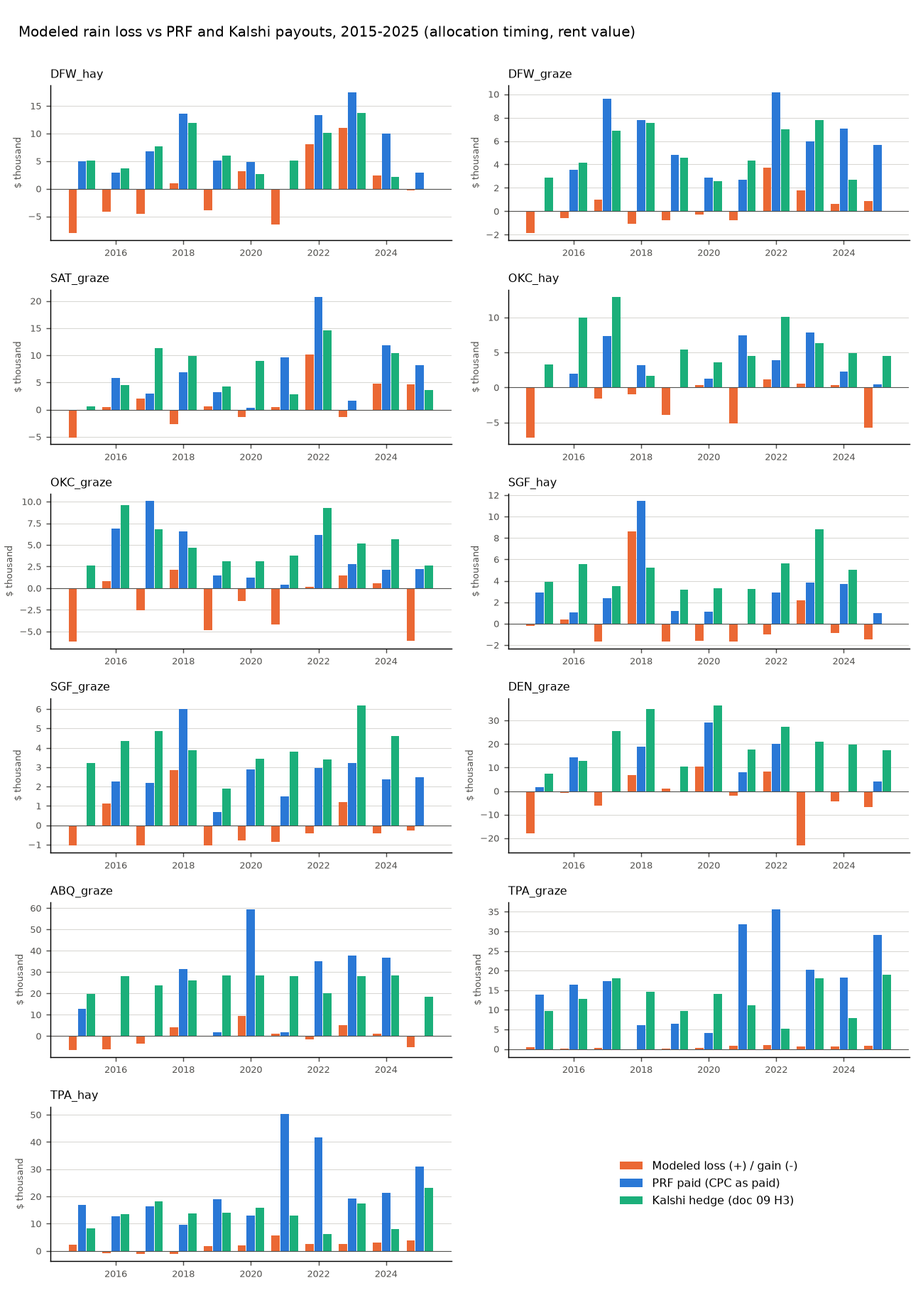
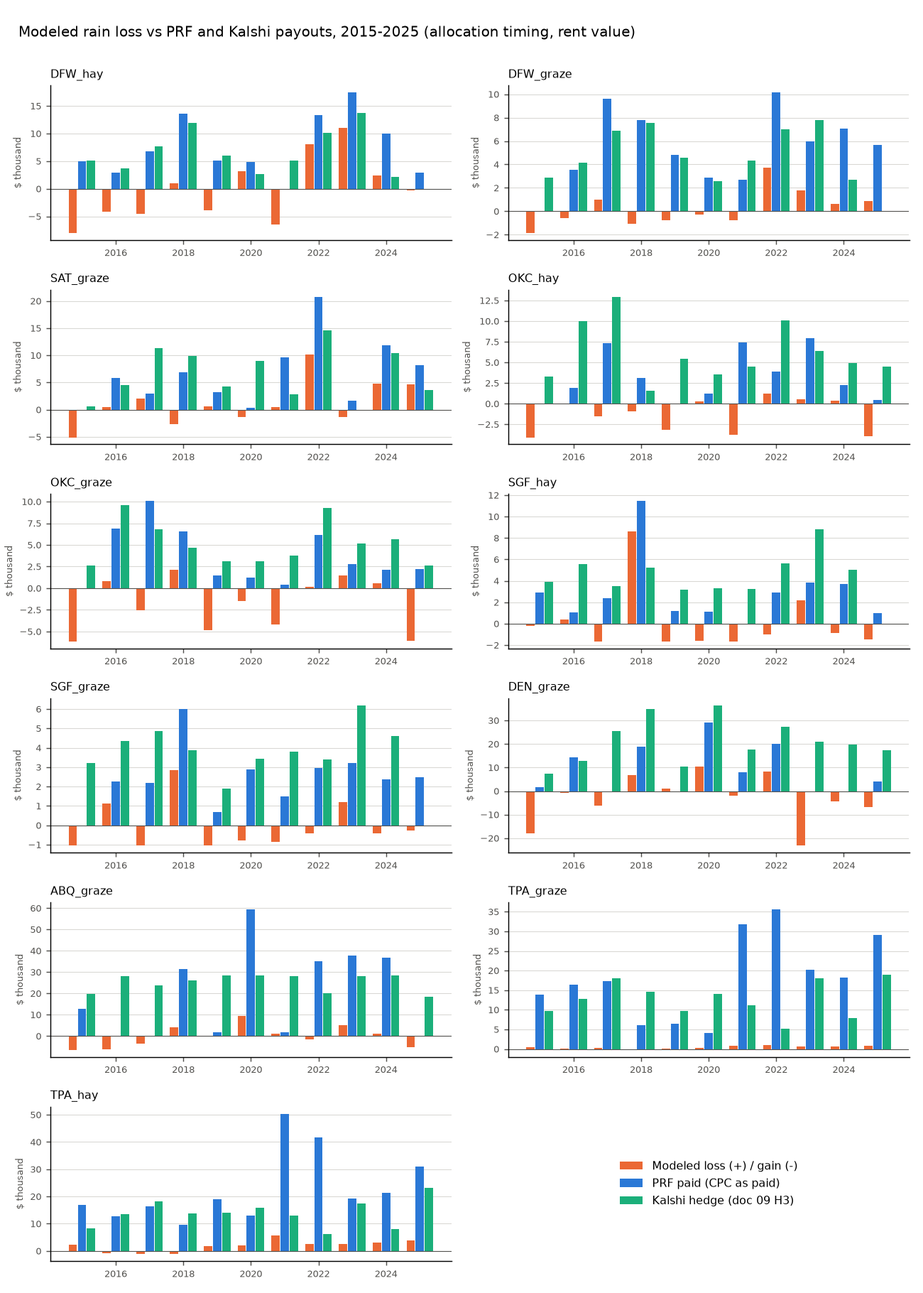
Review: select run/lossmodel-1; match OKC_hay curvature window, add marginal loss per point/inch
- OKC_hay curvature from hay_other_OK_state_AprSep (window of the scen_OKC_hay
  elasticity, 22.0 in), g -0.31 -> -0.90; outputs and doc 13 regenerated
- FarmLossModel.marginal_loss_per_point / marginal_loss_per_inch (idea from
  run/lossmodel-2), tested against finite differences
- Correct POOLED_CURVATURE_ROWS comment; doc 13 review section and prose numbers
- 300 tests pass

Changed region(s): [[0.4923, 0.2462, 0.9846, 0.3385]]

diff --git a/src/agri_hedge/loss_model.py b/src/agri_hedge/loss_model.py
@@ -100,7 +100,7 @@ FARM_CURVATURE_ROW: dict[str, str | None] = {
     "DFW_hay": "hay_other_TX_state_AprSep",          # same data and window as scen_DFW_hay
     "DFW_graze": "forage_rangeland_TX_Parker_AprJun",  # Grass-Cast, same county
     "SAT_graze": None,                               # no Atascosa series: pooled median
-    "OKC_hay": "hay_other_OK_state_AprJun",          # same data as scen_OKC_hay
+    "OKC_hay": "hay_other_OK_state_AprSep",          # same data and window as scen_OKC_hay (22.0 in)
     "OKC_graze": "hay_other_OK_Grady_AprJun",        # observed Grady hay (Grass-Cast too smooth in OK, 03b)
     "SGF_hay": "hay_other_MO_state_AprJun",          # same data as scen_SGF_hay
     "SGF_graze": "hay_other_MO_state_AprJun",        # same data as scen_SGF_graze
@@ -110,8 +110,10 @@ FARM_CURVATURE_ROW: dict[str, str | None] = {
     "TPA_hay": "hay_other_FL_state_MarMay",
 }
 
-#: Rows pooled for the default curvature (every forage/hay quadratic in the CSV except Florida,
-#: whose fit is not significant, t = 1.2).
+#: Rows pooled for the default curvature: the farm-grid / statewide forage and hay quadratics in
+#: the CSV, excluding Florida (fit not significant, t = 1.2), the Grass-Cast-weather duplicates
+#: (``*_grasscastppt``) and the Oklahoma Apr-Sep window (kept as in run/lossmodel-1, so the pooled
+#: value used for SAT_graze is unchanged).
 POOLED_CURVATURE_ROWS = (
     "hay_other_TX_state_AprSep", "hay_other_TX_state_AprJun", "hay_other_OK_state_AprJun",
     "hay_other_MO_state_AprJun", "hay_other_OK_Grady_AprJun", "hay_other_TX_Parker_AprJun",
@@ -450,6 +452,34 @@ class FarmLossModel:
         """Same as ``loss_usd`` from monthly rain (year x month 1..12) and monthly normals."""
         idx = interval_index_from_monthly(monthly, normals, intervals=list(self.timing_weights))
         return self.loss_usd(idx, gains=gains)
+
+    def marginal_loss_per_point(self, interval_index: Mapping[str, float], gains: bool = True) -> dict[str, float]:
+        """$ of extra loss per index point that each weighted interval falls (local derivative).
+
+        One year's {interval: index}. Uses the same pieces as ``production_response``: slope
+        e (1 + 2 g x) on the curve, 0 on the wet plateau (unless ``excess_penalty``) and at the
+        -100% floor, and 0 for x >= 0 when ``gains=False``. Idea grafted from run/lossmodel-2's
+        ``marginal_loss_per_point`` (a hedge optimizer needs $ per point by interval).
+        """
+        if not isinstance(interval_index, Mapping):
+            raise TypeError("marginal_loss_per_point takes one year's {interval: index} mapping")
+        x = self.season_index(interval_index) / 100.0 - 1.0
+        e, g = self.elasticity, self.curvature
+        slope = e * (1.0 + 2.0 * g * x)
+        if g < 0 and not self.excess_penalty and x > -1.0 / (2.0 * g):
+            slope = 0.0
+        if production_response(x, e, g, self.excess_penalty) <= -1.0:
+            slope = 0.0
+        if not gains and x >= 0:
+            slope = 0.0
+        per_point = self.normal_value_usd * slope / 100.0
+        return {k: per_point * w for k, w in self.timing_weights.items()}
+
+    def marginal_loss_per_inch(self, interval_index: Mapping[str, float],
+                               interval_normals_in: Mapping[str, float], gains: bool = True) -> dict[str, float]:
+        """$ of extra loss per inch less rain in each weighted interval (1 point = 1% of its normal)."""
+        per_point = self.marginal_loss_per_point(interval_index, gains=gains)
+        return {k: v * 100.0 / float(interval_normals_in[k]) for k, v in per_point.items()}
 
     def table(self, interval_index: pd.DataFrame, gains: bool = True) -> pd.DataFrame:
         s = self.season_index(interval_index)

diff --git a/tests/test_loss_model.py b/tests/test_loss_model.py
@@ -295,3 +295,60 @@ def test_coverage_metrics_hand_example():
     assert m["capped_coverage"] == pytest.approx(100 / 400)
     assert m["n_loss_years"] == 2 and m["n_loss_years_unpaid"] == 1 and m["n_paid_no_loss"] == 1
     assert m["mean_net_outcome_usd"] == pytest.approx((170 - 350) / 4 - 10)
+
+
+# ---------------------------------------------------------------------------------------------
+# Review fixes (final/lossmodel): curvature window matching and marginal $ per point / inch
+# ---------------------------------------------------------------------------------------------
+
+@pytest.mark.parametrize("fid", ["DFW_hay", "OKC_hay"])
+def test_hay_curvature_window_matches_elasticity_window(sens, fid):
+    """DFW_hay and OKC_hay elasticities use rain over the insured Apr-Sep months (scen rows'
+    baseline 16.55 / 22.0 in), so their curvature must come from the Apr-Sep quadratic."""
+    key = lm.FARM_CURVATURE_ROW[fid]
+    scen = sens[sens["row_key"] == f"scen_{fid}"].iloc[0]
+    row = sens[sens["row_key"] == key].iloc[0]
+    assert key.endswith("AprSep")
+    assert row["baseline_precip_in"] == pytest.approx(scen["baseline_precip_in"])
+
+
+def test_okc_hay_curvature_hand_value(sens):
+    # OK Apr-Sep: +0.035 / -0.038 t, normal 22.0 in -> a = -0.0015, b = 0.0365, g = a/b*22
+    g, src = lm.curvature_for_farm("OKC_hay", sens)
+    assert g == pytest.approx(-0.0015 / 0.0365 * 22.0)
+    c = lm.curvature_for_row(sens, "hay_other_OK_state_AprSep")
+    assert c["minus2_implied"] == pytest.approx(c["minus2"], abs=0.003)
+
+
+@pytest.mark.parametrize("fid", ["DFW_hay", "SGF_hay", "DEN_graze", "TPA_hay"])
+@pytest.mark.parametrize("level", [45.0, 80.0, 97.0, 110.0])
+def test_marginal_loss_per_point_matches_finite_difference(farms, sens, fid, level):
+    m = lm.build_farm_model(farms[fid], sens)
+    base = {k: level for k in m.timing_weights}
+    marg = m.marginal_loss_per_point(base)
+    h = 1e-4
+    for k in m.timing_weights:
+        lo = dict(base, **{k: level - h})
+        hi = dict(base, **{k: level + h})
+        fd = (m.loss_usd(lo) - m.loss_usd(hi)) / (2 * h)   # extra loss per point of LESS rain
+        assert marg[k] == pytest.approx(fd, rel=1e-4, abs=1e-6)
+
+
+def test_marginal_loss_zero_on_plateau_and_when_gains_off(farms, sens):
+    m = lm.build_farm_model(farms["SGF_hay"], sens)        # saturates at season index ~126
+    wet = {k: 200.0 for k in m.timing_weights}
+    assert all(v == 0.0 for v in m.marginal_loss_per_point(wet).values())
+    mild_wet = {k: 110.0 for k in m.timing_weights}
+    assert all(v > 0 for v in m.marginal_loss_per_point(mild_wet).values())
+    assert all(v == 0.0 for v in m.marginal_loss_per_point(mild_wet, gains=False).values())
+    with pytest.raises(TypeError):
+        m.marginal_loss_per_point(_flat_index())
+
+
+def test_marginal_loss_per_inch_scales_by_interval_normal(farms, sens):
+    m = lm.build_farm_model(farms["DEN_graze"], sens)
+    idx = {k: 70.0 for k in m.timing_weights}
+    normals = {k: 2.0 + i for i, k in enumerate(m.timing_weights)}
+    pp, pi = m.marginal_loss_per_point(idx), m.marginal_loss_per_inch(idx, normals)
+    for k in m.timing_weights:
+        assert pi[k] == pytest.approx(pp[k] * 100.0 / normals[k])

diff --git a/docs/analysis/13_rain_to_loss_model.md b/docs/analysis/13_rain_to_loss_model.md
@@ -2,19 +2,19 @@
 
 **Proposal cell:** Milestone 2 foundation (loss model for hedge sizing and contract design)  |  **Status:** DRAFT (model and backtest done; not fact-checked by an independent pass)  |  **Last updated:** 2026-11-01
 
-Code: [`src/agri_hedge/loss_model.py`](../../src/agri_hedge/loss_model.py) (model), [`scripts/run_loss_model.py`](../../scripts/run_loss_model.py) (backtest), [`tests/test_loss_model.py`](../../tests/test_loss_model.py) (57 tests). Outputs: `data/processed/loss_model_parameters.csv`, `loss_model_farm_year.csv` (1969-2025, every variant, merged with PRF and Kalshi payouts), `loss_model_coverage.csv`, `loss_model_hay_validation.csv`, figure [`l1_loss_vs_payouts_2015_2025.png`](../figures/l1_loss_vs_payouts_2015_2025.png).
+Code: [`src/agri_hedge/loss_model.py`](../../src/agri_hedge/loss_model.py) (model), [`scripts/run_loss_model.py`](../../scripts/run_loss_model.py) (backtest), [`tests/test_loss_model.py`](../../tests/test_loss_model.py) (78 tests). Outputs: `data/processed/loss_model_parameters.csv`, `loss_model_farm_year.csv` (1969-2025, every variant, merged with PRF and Kalshi payouts), `loss_model_coverage.csv`, `loss_model_hay_validation.csv`, figure [`l1_loss_vs_payouts_2015_2025.png`](../figures/l1_loss_vs_payouts_2015_2025.png).
 
 ## Key findings
 
 - **We now have one reusable function from rain to dollars.** Given a farm from `farms.yaml` and rain (PRF interval indices, or monthly rain plus normals), `build_farm_model(farm).loss_usd(rain)` returns the dollar loss (positive) or gain (negative) versus a normal year. It covers interval timing weights, dry-versus-wet asymmetry, saturation in wet years, irrigation share, and three ways of valuing forage. A row-crop path (`load_rowcrop_model`) does the same for corn and soybeans from doc 03a, including the excess-rain penalty.
 - **Every parameter comes from existing project research. Nothing was re-fitted here.** Elasticities are the doc-03b `scen_*` values (0.14-0.89). The asymmetry comes from the quadratic fits already stored in `crop_rain_sensitivity_other.csv`. With asymmetry off and gains floored at zero, the model reproduces doc 04b's forage-loss proxy to the cent for all 825 farm-years. `run_scenarios.py` now imports these shared functions instead of keeping its own copies.
 - **The asymmetry is mild for most farms but strong in Missouri.** The curvature g ranges from 0 (Florida, where no asymmetry is detectable) to −1.92 (Missouri hay). For Missouri, a season at 80% of normal rain costs about 2.3 times what a season at 120% gains. At 70% versus 130% the ratio is 3.6, because Missouri gains saturate at a season index of 126.
-- **The model points the right way against real yields, but it overstates the size of swings.** For the four hay farms, the predicted production change correlates 0.34-0.58 (central variant; 0.34-0.61 across variants) with detrended NASS statewide hay yields over 1975-2025. Part of the gap is expected, because state yields average many farms and the model uses one grid's rain. The regression slope of actual on modeled is 0.46-0.92: the farm-grid model swings more than the state average. This check is not independent: the hay elasticities were fitted on statewide data over the same years (doc 03b).
-- **Asymmetry helps a little in Texas and Oklahoma and is too strong in Missouri.** Adding curvature raises the hay-yield correlation from 0.45 to 0.46 (TX) and from 0.56 to 0.58 (OK). In Missouri it lowers the correlation (0.44 to 0.40) and overstates drought years (−15% modeled vs −11.6% actual in the driest fifth of years). It still cuts Missouri's RMSE (0.124 to 0.108), mainly because saturation stops the model from predicting wet-year gains that never came.
+- **The model points the right way against real yields, but it overstates the size of swings.** For the four hay farms, the predicted production change correlates 0.34-0.57 (central variant; 0.34-0.59 across variants) with detrended NASS statewide hay yields over 1975-2025. Part of the gap is expected, because state yields average many farms and the model uses one grid's rain. The regression slope of actual on modeled is 0.46-0.92 (central variant): the farm-grid model swings more than the state average. This check is not independent: the hay elasticities were fitted on statewide data over the same years (doc 03b).
+- **Asymmetry helps a little in Texas and Oklahoma and is too strong in Missouri.** Adding curvature raises the hay-yield correlation from 0.45 to 0.46 (TX) and from 0.56 to 0.57 (OK), and cuts Oklahoma's RMSE from 0.142 to 0.122. In Missouri it lowers the correlation (0.44 to 0.40) and overstates drought years (−15% modeled vs −11.6% actual in the driest fifth of years). It still cuts Missouri's RMSE (0.124 to 0.108), mainly because saturation stops the model from predicting wet-year gains that never came.
 - **Measured against modeled loss, both PRF and the Kalshi hedge over-pay, and neither misses a loss year.** Over 2015-2025, 11 farms:
   - At the doc-03b/04b value basis (hay at market price, grazing at cash rent), modeled losses total $158k. PRF paid $1.11M (7.0 times) and the Kalshi hedge $1.20M (7.7 times).
   - In none of the 34-35 farm-years with a material modeled loss (more than 5% of normal value) did PRF or Kalshi pay zero.
-  - When grazing is valued at the cost of replacement hay, modeled losses rise to $699k. PRF then pays 1.6 times the loss, but only 59% of loss dollars are covered in the year they happen (Kalshi: 57%).
+  - When grazing is valued at the cost of replacement hay, modeled losses rise to $700k. PRF then pays 1.6 times the loss, but only 59% of loss dollars are covered in the year they happen (Kalshi: 57%).
 - **PRF tracks modeled loss better than the Kalshi hedge does.** The median farm correlation between yearly payout and modeled loss is 0.78 for PRF and 0.52 for Kalshi. With growth-curve timing it is 0.65 and 0.49.
   - Kalshi pays more often in years the model calls a gain: 58 farm-years versus 48 for PRF. It also sends 42% of its dollars to those years, against 22% for PRF.
   - In Florida the Kalshi hedge is uncorrelated with modeled loss (−0.20 grazing, −0.06 hay).
@@ -33,6 +33,7 @@ Code: [`src/agri_hedge/loss_model.py`](../../src/agri_hedge/loss_model.py) (mode
 | `FarmLossModel.loss_usd(index, gains=True)` | dollar loss (+) / gain (−) for a year×interval DataFrame of PRF-style indices (100 = normal) or one year's `{interval: index}` |
 | `FarmLossModel.loss_from_monthly(monthly, normals)` | same, from monthly rain (year×month) and monthly normals; e.g. Kalshi station rain |
 | `FarmLossModel.table(index)` | season index, production change and loss per year |
+| `FarmLossModel.marginal_loss_per_point(index)`, `.marginal_loss_per_inch(index, interval_normals_in)` | one year's $ of extra loss per index point (or per inch) that each weighted interval falls: the local slope a hedge optimizer needs (0 on the wet plateau and at the −100% floor) |
 | `production_response(x, e, g, excess_penalty)` | the response curve on its own |
 | `interval_index_from_monthly`, `weighted_index`, `growth_timing_weights`, `curvature_for_row`, `value_per_acre`, `irrigated_share_of` | building blocks |
 | `forage_loss_proxy`, `elasticity_for`, `weighted_index` | moved unchanged from `scripts/run_scenarios.py`, which now imports them |
@@ -79,9 +80,9 @@ Every number used to build or calibrate the model. "Repo" = read from a committe
 | Quantity | Value | Units | Region / period | Source | Verification |
 |---|---|---|---|---|---|
 | Farm elasticities e | DFW_hay 0.486; DFW_graze 0.573; SAT 0.477; OKC_hay 0.494; OKC_graze 0.672; SGF_hay 0.397; SGF_graze 0.462; DEN 0.742; ABQ 0.888; TPA_graze 0.155; TPA_hay 0.144 | - | per farm | `crop_rain_sensitivity_other.csv` rows `scen_*`, column `rain_elasticity` (doc 03b section 8) | Repo (03b: COMPUTED/DERIVED, not fact-checked) |
-| Quadratic +1 / −1 / −2 in used for curvature | TX hay Apr-Sep +0.059/−0.061/−0.125 t; OK hay Apr-Jun +0.041/−0.043/−0.090 t; MO hay Apr-Jun +0.031/−0.041/−0.093 t; Grady hay +0.047/−0.052/−0.109 t; Parker forage +46/−53/−114 lb; Elbert +70/−73/−150 lb; Torrance +35/−40/−84 lb; FL hay +0.013/−0.007/−0.008 t | yield units | 1975-2025 (hay), 1982-2019 (Grass-Cast), 1960-2018 (Grady) | same CSV, `valid_range_note` of the rows named in table A | Repo (03b: COMPUTED) |
-| Window normals for curvature | 16.55, 12.89, 13.84, 12.1, 11.76, 9.8, 6.85, 10.43 (same order) | in | same | same CSV, `baseline_precip_in` | Repo |
-| Curvature g = (a/b) × N | −0.28, −0.31, −1.92, −0.61, −0.83, −0.21, −0.46; FL +3.13 set to 0 | - | per row | a = (y₊₁ + y₋₁)/2, b = (y₊₁ − y₋₁)/2 | DERIVED; each quadratic reproduces its own −2 in value within 2% (test) |
+| Quadratic +1 / −1 / −2 in used for curvature | TX hay Apr-Sep +0.059/−0.061/−0.125 t; OK hay Apr-Sep +0.035/−0.038/−0.079 t; MO hay Apr-Jun +0.031/−0.041/−0.093 t; Grady hay +0.047/−0.052/−0.109 t; Parker forage +46/−53/−114 lb; Elbert +70/−73/−150 lb; Torrance +35/−40/−84 lb; FL hay +0.013/−0.007/−0.008 t | yield units | 1975-2025 (hay), 1982-2019 (Grass-Cast), 1960-2018 (Grady) | same CSV, `valid_range_note` of the rows named in table A | Repo (03b: COMPUTED) |
+| Window normals for curvature | 16.55, 22.0, 13.84, 12.1, 11.76, 9.8, 6.85, 10.43 (same order) | in | same | same CSV, `baseline_precip_in` | Repo |
+| Curvature g = (a/b) × N | −0.28, −0.90, −1.92, −0.61, −0.83, −0.21, −0.46; FL +3.13 set to 0 | - | per row | a = (y₊₁ + y₋₁)/2, b = (y₊₁ − y₋₁)/2 | DERIVED; each quadratic reproduces its own −2 in value within 2% (test) |
 | Pooled curvature (SAT_graze, no Atascosa series) | −0.53 | - | median of 10 non-Florida quadratics | same CSV | DERIVED |
 | Growth curves (Jan..Dec %) | TX5514, TX6011, TX4525, TX5520, OK0001, OK0003, CO6701, CO6709, NM4208, FL bahiagrass FSG (values in code) | % of annual | per ESD | doc 03b numbers table (NRCS EDIT / FSG) | Repo (03b: CONFIRMED) |
 | Missouri fescue curve | Mar-Jun 16.7% each, Sep-Nov 11.1% each | % | Dade Co. | our construction from MU Extension "two-thirds spring, one-third fall" (doc 03b) | ASSUMPTION (no NRCS curve exists) |
@@ -129,7 +130,7 @@ Generated by `python scripts/run_loss_model.py`. Do not edit by hand.
 | DFW_hay | 0.486 | -0.28 | 281 | $37,440 | $37,440 | Apr-May 0.40; Jun-Jul 0.35; Aug-Sep 0.25 | Mar-Apr 0.21; May-Jun 0.38; Jul-Aug 0.17; Sep-Oct 0.21; Nov-Dec 0.04 |
 | DFW_graze | 0.573 | -0.83 | 160 | $10,800 | $53,625 | Feb-Mar 0.15; Apr-May 0.35; Jun-Jul 0.25; Sep-Oct 0.25 | Jan-Feb 0.05; Mar-Apr 0.27; May-Jun 0.34; Jul-Aug 0.13; Sep-Oct 0.17; Nov-Dec 0.05 |
 | SAT_graze | 0.477 | -0.53 | 194 | $23,250 | $86,164 | Mar-Apr 0.20; May-Jun 0.40; Sep-Oct 0.40 | Jan-Feb 0.06; Mar-Apr 0.22; May-Jun 0.27; Jul-Aug 0.19; Sep-Oct 0.19; Nov-Dec 0.09 |
-| OKC_hay | 0.494 | -0.31 | 263 | $29,740 | $29,740 | Apr-May 0.35; Jun-Jul 0.40; Aug-Sep 0.25 | Jan-Feb 0.04; Mar-Apr 0.23; May-Jun 0.43; Jul-Aug 0.17; Sep-Oct 0.11; Nov-Dec 0.02 |
+| OKC_hay | 0.494 | -0.90 | 155 | $29,740 | $29,740 | Apr-May 0.35; Jun-Jul 0.40; Aug-Sep 0.25 | Jan-Feb 0.04; Mar-Apr 0.23; May-Jun 0.43; Jul-Aug 0.17; Sep-Oct 0.11; Nov-Dec 0.02 |
 | OKC_graze | 0.672 | -0.61 | 182 | $24,500 | $52,256 | Mar-Apr 0.30; May-Jun 0.40; Jul-Aug 0.20; Sep-Oct 0.10 | Jan-Feb 0.04; Mar-Apr 0.23; May-Jun 0.43; Jul-Aug 0.17; Sep-Oct 0.11; Nov-Dec 0.02 |
 | SGF_hay | 0.397 | -1.92 | 126 | $32,205 | $32,205 | Mar-Apr 0.40; May-Jun 0.40; Sep-Oct 0.20 | Jan-Feb 0.08; Mar-Apr 0.33; May-Jun 0.25; Jul-Aug 0.06; Sep-Oct 0.22; Nov-Dec 0.06 |
 | SGF_graze | 0.462 | -1.92 | 126 | $17,500 | $27,075 | Mar-Apr 0.30; May-Jun 0.30; Aug-Sep 0.20; Oct-Nov 0.20 | Jan-Feb 0.08; Mar-Apr 0.33; May-Jun 0.25; Jul-Aug 0.06; Sep-Oct 0.22; Nov-Dec 0.06 |
@@ -138,7 +139,7 @@ Generated by `python scripts/run_loss_model.py`. Do not edit by hand.
 | TPA_graze | 0.155 | 0.00 | none (linear) | $11,000 | $81,600 | Mar-Apr 0.40; May-Jun 0.40; Oct-Nov 0.20 | Jan-Feb 0.02; Mar-Apr 0.22; May-Jun 0.33; Jul-Aug 0.33; Sep-Oct 0.10 |
 | TPA_hay | 0.144 | 0.00 | none (linear) | $65,280 | $65,280 | Mar-Apr 0.30; May-Jun 0.40; Sep-Oct 0.30 | Jan-Feb 0.02; Mar-Apr 0.22; May-Jun 0.33; Jul-Aug 0.33; Sep-Oct 0.10 |
 
-Curvature sources: DFW_hay: hay_other_TX_state_AprSep (+1/-1 in = 0.059/-0.061, normal 16.55 in); DFW_graze: forage_rangeland_TX_Parker_AprJun (+1/-1 in = 46.0/-53.0, normal 11.76 in); SAT_graze: pooled median of 10 forage/hay quadratics; OKC_hay: hay_other_OK_state_AprJun (+1/-1 in = 0.041/-0.043, normal 12.89 in); OKC_graze: hay_other_OK_Grady_AprJun (+1/-1 in = 0.047/-0.052, normal 12.1 in); SGF_hay: hay_other_MO_state_AprJun (+1/-1 in = 0.031/-0.041, normal 13.84 in); SGF_graze: hay_other_MO_state_AprJun (+1/-1 in = 0.031/-0.041, normal 13.84 in); DEN_graze: forage_rangeland_CO_Elbert_AprJul (+1/-1 in = 70.0/-73.0, normal 9.8 in); ABQ_graze: forage_rangeland_NM_Torrance_JulSep (+1/-1 in = 35.0/-40.0, normal 6.85 in); TPA_graze: hay_other_FL_state_MarMay (+1/-1 in = 0.013/-0.007, normal 10.43 in); fitted +3.13 > 0 clamped to 0; TPA_hay: hay_other_FL_state_MarMay (+1/-1 in = 0.013/-0.007, normal 10.43 in); fitted +3.13 > 0 clamped to 0
+Curvature sources: DFW_hay: hay_other_TX_state_AprSep (+1/-1 in = 0.059/-0.061, normal 16.55 in); DFW_graze: forage_rangeland_TX_Parker_AprJun (+1/-1 in = 46.0/-53.0, normal 11.76 in); SAT_graze: pooled median of 10 forage/hay quadratics; OKC_hay: hay_other_OK_state_AprSep (+1/-1 in = 0.035/-0.038, normal 22.0 in); OKC_graze: hay_other_OK_Grady_AprJun (+1/-1 in = 0.047/-0.052, normal 12.1 in); SGF_hay: hay_other_MO_state_AprJun (+1/-1 in = 0.031/-0.041, normal 13.84 in); SGF_graze: hay_other_MO_state_AprJun (+1/-1 in = 0.031/-0.041, normal 13.84 in); DEN_graze: forage_rangeland_CO_Elbert_AprJul (+1/-1 in = 70.0/-73.0, normal 9.8 in); ABQ_graze: forage_rangeland_NM_Torrance_JulSep (+1/-1 in = 35.0/-40.0, normal 6.85 in); TPA_graze: hay_other_FL_state_MarMay (+1/-1 in = 0.013/-0.007, normal 10.43 in); fitted +3.13 > 0 clamped to 0; TPA_hay: hay_other_FL_state_MarMay (+1/-1 in = 0.013/-0.007, normal 10.43 in); fitted +3.13 > 0 clamped to 0
 
 ### B. Backtest 2015-2025, all 11 farms pooled
 
@@ -146,14 +147,14 @@ Modeled loss counts only years with a loss (positive part). Capped coverage = su
 
 | Loss variant | Instrument | Farm-years | Modeled loss | Payouts | Payout / loss | Capped coverage | Median farm corr | Loss years | ...unpaid | Paid with no loss | Farms with lower risk (sd ratio < 1) |
 |---|---|---|---|---|---|---|---|---|---|---|---|
-| alloc_rent | prf | 121 | $157,721 | $1,110,071 | 7.04 | 99% | 0.78 | 35 | 0 | 48 | 5 of 11 |
-| alloc_rent | kalshi | 116 | $156,868 | $1,200,959 | 7.66 | 97% | 0.52 | 34 | 0 | 58 | 6 of 11 |
-| alloc_repl | prf | 121 | $699,476 | $1,110,071 | 1.59 | 59% | 0.78 | 35 | 0 | 48 | 8 of 11 |
-| alloc_repl | kalshi | 116 | $695,244 | $1,200,959 | 1.73 | 57% | 0.52 | 34 | 0 | 58 | 8 of 11 |
-| growth_rent | prf | 121 | $120,517 | $1,110,071 | 9.21 | 99% | 0.65 | 28 | 0 | 57 | 4 of 11 |
-| growth_rent | kalshi | 116 | $118,778 | $1,200,959 | 10.11 | 98% | 0.49 | 28 | 0 | 69 | 5 of 11 |
-| growth_repl | prf | 121 | $501,153 | $1,110,071 | 2.22 | 70% | 0.65 | 28 | 0 | 57 | 7 of 11 |
-| growth_repl | kalshi | 116 | $497,149 | $1,200,959 | 2.42 | 63% | 0.49 | 28 | 0 | 69 | 8 of 11 |
+| alloc_rent | prf | 121 | $157,792 | $1,110,071 | 7.04 | 99% | 0.78 | 35 | 0 | 48 | 5 of 11 |
+| alloc_rent | kalshi | 116 | $156,939 | $1,200,959 | 7.65 | 97% | 0.52 | 34 | 0 | 58 | 6 of 11 |
+| alloc_repl | prf | 121 | $699,548 | $1,110,071 | 1.59 | 59% | 0.78 | 35 | 0 | 48 | 8 of 11 |
+| alloc_repl | kalshi | 116 | $695,315 | $1,200,959 | 1.73 | 57% | 0.52 | 34 | 0 | 58 | 8 of 11 |
+| growth_rent | prf | 121 | $120,769 | $1,110,071 | 9.19 | 99% | 0.65 | 28 | 0 | 57 | 4 of 11 |
+| growth_rent | kalshi | 116 | $119,030 | $1,200,959 | 10.09 | 98% | 0.49 | 28 | 0 | 69 | 5 of 11 |
+| growth_repl | prf | 121 | $501,404 | $1,110,071 | 2.21 | 70% | 0.65 | 28 | 0 | 57 | 7 of 11 |
+| growth_repl | kalshi | 116 | $497,400 | $1,200,959 | 2.41 | 63% | 0.49 | 28 | 0 | 69 | 8 of 11 |
 | alloc_rent_linear | prf | 121 | $139,685 | $1,110,071 | 7.95 | 99% | 0.76 | 35 | 0 | 48 | 6 of 11 |
 | alloc_rent_linear | kalshi | 116 | $138,912 | $1,200,959 | 8.65 | 99% | 0.51 | 34 | 0 | 58 | 7 of 11 |
 
@@ -164,7 +165,7 @@ Modeled loss counts only years with a loss (positive part). Capped coverage = su
 | DFW_hay | $25,694 | -$1,660 | $81,844 | 3.19 | 100% | 0.80 | $68,070 (10 yr) | 2.65 | 97% | 0.54 | 4 (0 / 0) | 0.60 / 0.85 |
 | DFW_graze | $7,985 | $2,671 | $60,206 | 7.54 | 100% | 0.74 | $50,410 (10 yr) | 7.07 | 100% | 0.52 | 5 (0 / 0) | 1.41 / 1.14 |
 | SAT_graze | $23,261 | $12,965 | $71,487 | 3.07 | 100% | 0.85 | $70,837 (10 yr) | 3.05 | 95% | 0.58 | 4 (0 / 0) | 0.80 / 0.94 |
-| OKC_hay | $2,317 | -$22,263 | $35,667 | 15.39 | 100% | 0.29 | $67,295 (11 yr) | 29.04 | 100% | 0.36 | 0 (0 / 0) | 1.21 / 1.24 |
+| OKC_hay | $2,389 | -$15,014 | $35,667 | 14.93 | 100% | 0.24 | $67,295 (11 yr) | 28.17 | 100% | 0.34 | 0 (0 / 0) | 1.59 / 1.67 |
 | OKC_graze | $5,263 | -$20,053 | $39,906 | 7.58 | 100% | 0.49 | $56,466 (11 yr) | 10.73 | 100% | 0.63 | 2 (0 / 0) | 1.04 / 0.80 |
 | SGF_hay | $11,217 | $1,058 | $31,565 | 2.81 | 100% | 0.93 | $47,439 (10 yr) | 4.23 | 70% | 0.44 | 2 (0 / 0) | 0.38 / 0.91 |
 | SGF_graze | $5,185 | -$651 | $26,532 | 5.12 | 100% | 0.81 | $39,665 (10 yr) | 7.65 | 100% | 0.39 | 3 (0 / 0) | 0.71 / 1.03 |
@@ -180,7 +181,7 @@ Modeled loss counts only years with a loss (positive part). Capped coverage = su
 | DFW_hay | $16,934 | -$7,150 | $81,844 | 4.83 | 100% | 0.65 | $68,070 (10 yr) | 4.30 | 98% | 0.43 | 3 (0 / 0) | 0.89 / 0.97 |
 | DFW_graze | $30,582 | $1,302 | $60,206 | 1.97 | 64% | 0.70 | $50,410 (10 yr) | 1.77 | 57% | 0.63 | 2 (0 / 0) | 0.77 / 0.86 |
 | SAT_graze | $64,994 | $25,047 | $71,487 | 1.10 | 66% | 0.60 | $70,837 (10 yr) | 1.10 | 50% | 0.49 | 4 (0 / 0) | 0.81 / 0.89 |
-| OKC_hay | $4,172 | -$21,065 | $35,667 | 8.55 | 96% | 0.39 | $67,295 (11 yr) | 16.13 | 100% | 0.35 | 1 (0 / 0) | 1.08 / 1.20 |
+| OKC_hay | $4,423 | -$13,397 | $35,667 | 8.06 | 92% | 0.32 | $67,295 (11 yr) | 15.21 | 100% | 0.31 | 1 (0 / 0) | 1.41 / 1.56 |
 | OKC_graze | $10,277 | -$40,857 | $39,906 | 3.88 | 99% | 0.60 | $56,466 (11 yr) | 5.49 | 100% | 0.72 | 2 (0 / 0) | 0.81 / 0.77 |
 | SGF_hay | $6,687 | -$1,566 | $31,565 | 4.72 | 92% | 0.77 | $47,439 (10 yr) | 7.09 | 100% | 0.67 | 1 (0 / 0) | 1.22 / 0.80 |
 | SGF_graze | $6,543 | -$1,532 | $26,532 | 4.06 | 100% | 0.75 | $39,665 (10 yr) | 6.06 | 100% | 0.38 | 3 (0 / 0) | 0.68 / 0.96 |
@@ -196,7 +197,7 @@ Modeled loss counts only years with a loss (positive part). Capped coverage = su
 | DFW_hay | -8,012 | -4,209 | -4,487 | 1,038 | -3,907 | 3,126 | -6,430 | 8,054 | 11,001 | 2,475 | -310 |
 | DFW_graze | -1,861 | -594 | 992 | -1,062 | -745 | -282 | -770 | 3,720 | 1,778 | 642 | 852 |
 | SAT_graze | -5,081 | 439 | 2,093 | -2,615 | 604 | -1,290 | 495 | 10,180 | -1,311 | 4,732 | 4,717 |
-| OKC_hay | -7,107 | -45 | -1,614 | -966 | -3,949 | 311 | -5,173 | 1,165 | 507 | 334 | -5,726 |
+| OKC_hay | -4,062 | -45 | -1,500 | -926 | -3,183 | 315 | -3,758 | 1,218 | 517 | 339 | -3,928 |
 | OKC_graze | -6,151 | 854 | -2,568 | 2,162 | -4,837 | -1,494 | -4,212 | 184 | 1,454 | 609 | -6,055 |
 | SGF_hay | -239 | 414 | -1,663 | 8,610 | -1,663 | -1,601 | -1,663 | -1,003 | 2,193 | -890 | -1,439 |
 | SGF_graze | -1,019 | 1,133 | -1,052 | 2,845 | -1,052 | -768 | -844 | -416 | 1,207 | -403 | -282 |
@@ -214,9 +215,9 @@ Model input is the farm-grid CPC index; the yield is the statewide average, so a
 | DFW_hay (Texas) | alloc_rent | 1975-2025 | 51 | 0.46 | 0.46 | 0.164 | -24.8% / -12.3% | 0.34 |
 | DFW_hay (Texas) | alloc_rent_linear | 1975-2025 | 51 | 0.45 | 0.44 | 0.167 | -22.0% / -12.3% | 0.32 |
 | DFW_hay (Texas) | growth_rent | 1975-2025 | 51 | 0.47 | 0.56 | 0.151 | -17.1% / -10.3% | 0.21 |
-| OKC_hay (Oklahoma) | alloc_rent | 1975-2025 | 51 | 0.58 | 0.58 | 0.126 | -17.7% / -11.5% | 0.57 |
+| OKC_hay (Oklahoma) | alloc_rent | 1975-2025 | 51 | 0.57 | 0.62 | 0.122 | -21.2% / -11.5% | 0.59 |
 | OKC_hay (Oklahoma) | alloc_rent_linear | 1975-2025 | 51 | 0.56 | 0.48 | 0.142 | -15.9% / -11.5% | 0.56 |
-| OKC_hay (Oklahoma) | growth_rent | 1975-2025 | 51 | 0.61 | 0.75 | 0.114 | -11.9% / -12.3% | 0.52 |
+| OKC_hay (Oklahoma) | growth_rent | 1975-2025 | 51 | 0.59 | 0.88 | 0.110 | -13.5% / -12.3% | 0.46 |
 | SGF_hay (Missouri) | alloc_rent | 1975-2025 | 51 | 0.40 | 0.52 | 0.108 | -15.0% / -11.6% | 0.49 |
 | SGF_hay (Missouri) | alloc_rent_linear | 1975-2025 | 51 | 0.44 | 0.45 | 0.124 | -9.6% / -11.6% | 0.52 |
 | SGF_hay (Missouri) | growth_rent | 1975-2025 | 51 | 0.42 | 0.73 | 0.101 | -10.4% / -6.9% | 0.55 |
@@ -267,7 +268,7 @@ How to read the results:
 
 ## Verification
 
-- `tests/test_loss_model.py`: 57 tests, all passing, no network. The full suite is 279 passed (222 before). The tests check:
+- `tests/test_loss_model.py`: 78 tests, all passing, no network (57 from run/lossmodel-1 plus 21 added in the independent review). The full suite is 300 passed (222 before). The tests check:
   - The model reproduces the committed doc-04b `forage_loss_usd` and `weighted_index` for all 11 farms × 75 years, to within $0.01.
   - Hand-computed values for the response curve, curvature, growth weights, interval indices and a full farm loss (DEN_graze at 70% rain).
   - Each forage/hay quadratic reproduces its documented −2 in value.
@@ -276,6 +277,14 @@ How to read the results:
   - Irrigation scaling, sign conventions, and the coverage-metric arithmetic.
 - `run_scenarios.py` after the refactor: rerunning it gives identical `prf_scenario_results.csv` values in every column except `indemnity_official_adm_index_usd`. That column needs the raw ADM index history, which was not present in this checkout, and the difference is unrelated to the refactor. The regenerated outputs were discarded, so the committed results are unchanged.
 - Backtest inputs: PRF and Kalshi totals match doc 09.
+
+## Independent review changes (final/lossmodel)
+
+This doc was produced on branch run/lossmodel-1 and selected over a second independent run (run/lossmodel-2) by a reviewer, who reran the tests and the script (the committed outputs reproduced exactly, including the NASS check) and made these changes:
+
+- **OKC_hay curvature now comes from the Oklahoma Apr-Sep quadratic** (`hay_other_OK_state_AprSep`, +0.035/−0.038 in, normal 22.0 in, g = −0.90) instead of Apr-Jun (g = −0.31). The `scen_OKC_hay` elasticity is defined on rain over the insured Apr-Sep months (baseline 22.0 in), so this applies the same "same data and window" rule already used for DFW_hay. Effect: OKC_hay saturates at a season index of 155 instead of 263, its wet-year gains shrink, and pooled 2015-2025 modeled loss moves by under $300 (for example $157,721 to $157,792 at rent value). No headline ratio changes by more than 0.02.
+- **Added `marginal_loss_per_point` and `marginal_loss_per_inch`** to `FarmLossModel`, an idea taken from run/lossmodel-2. They are tested against finite differences of `loss_usd`.
+- Corrected the code comment on `POOLED_CURVATURE_ROWS`: the pool is not "every" quadratic in the CSV (it leaves out the Grass-Cast-weather duplicates and the Oklahoma Apr-Sep row). The pooled value (−0.53, used only for SAT_graze) is unchanged.
 
 ## Open questions and next steps
 
